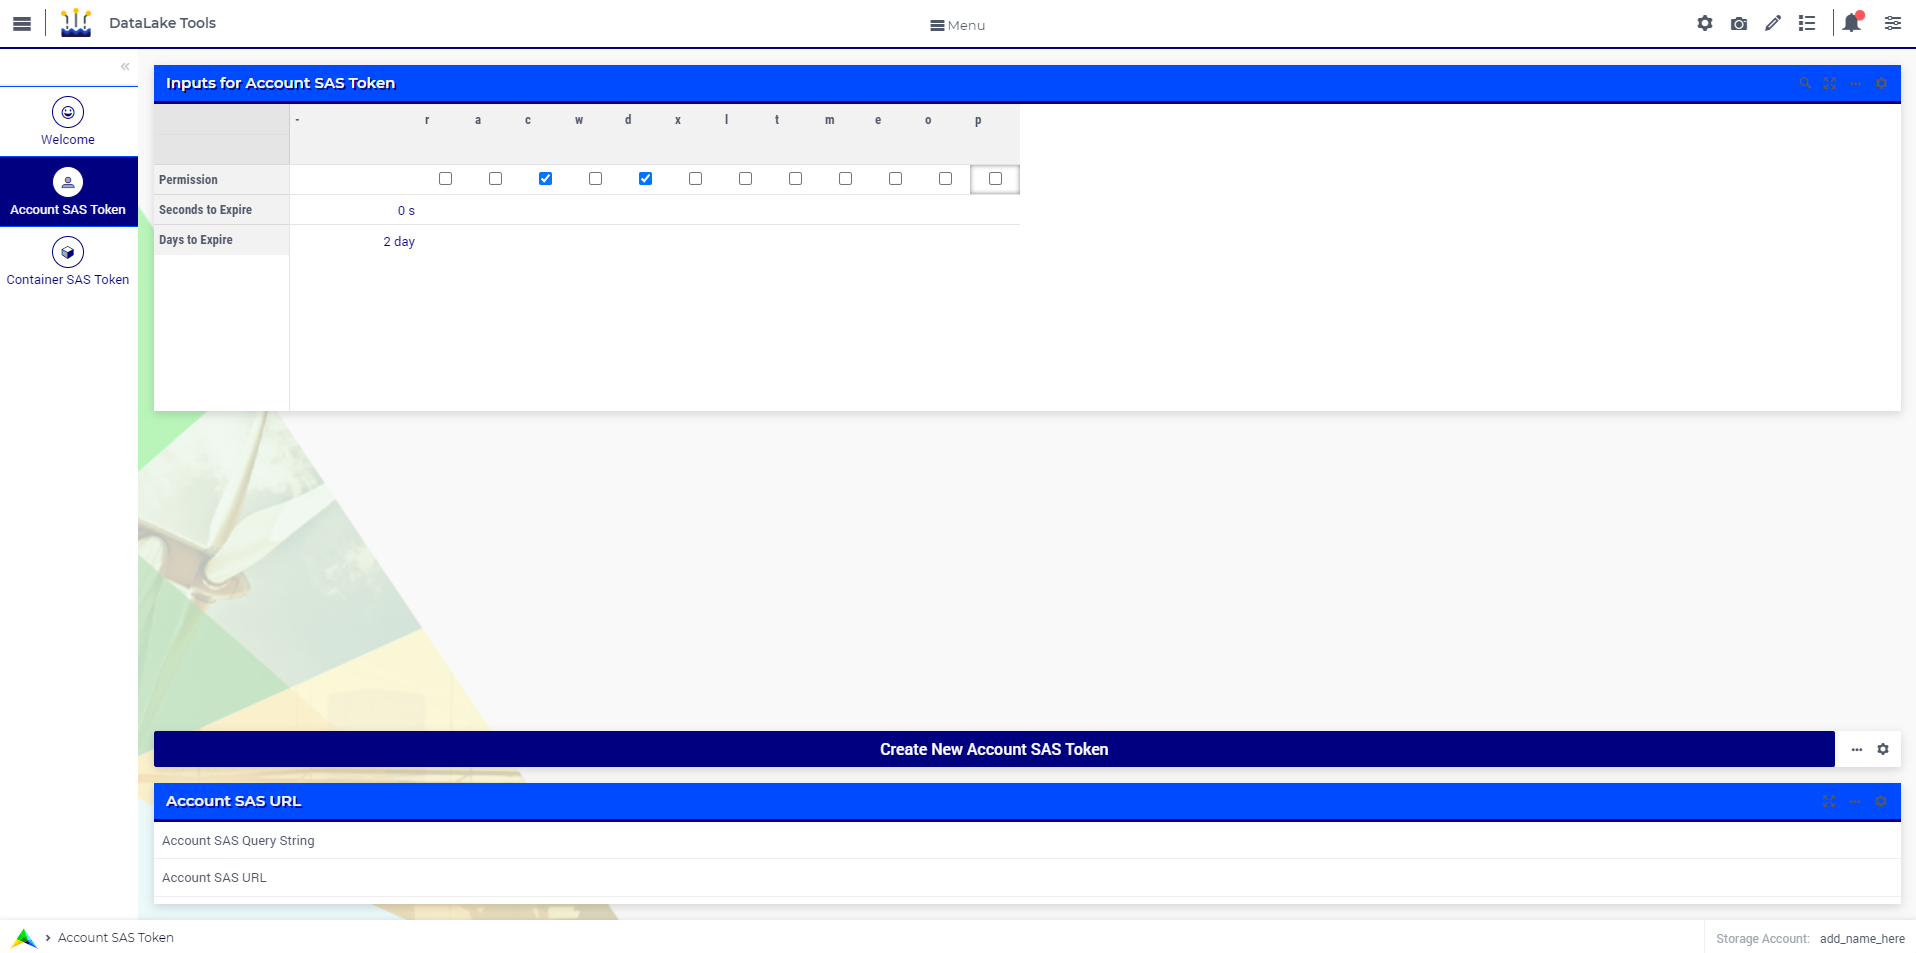
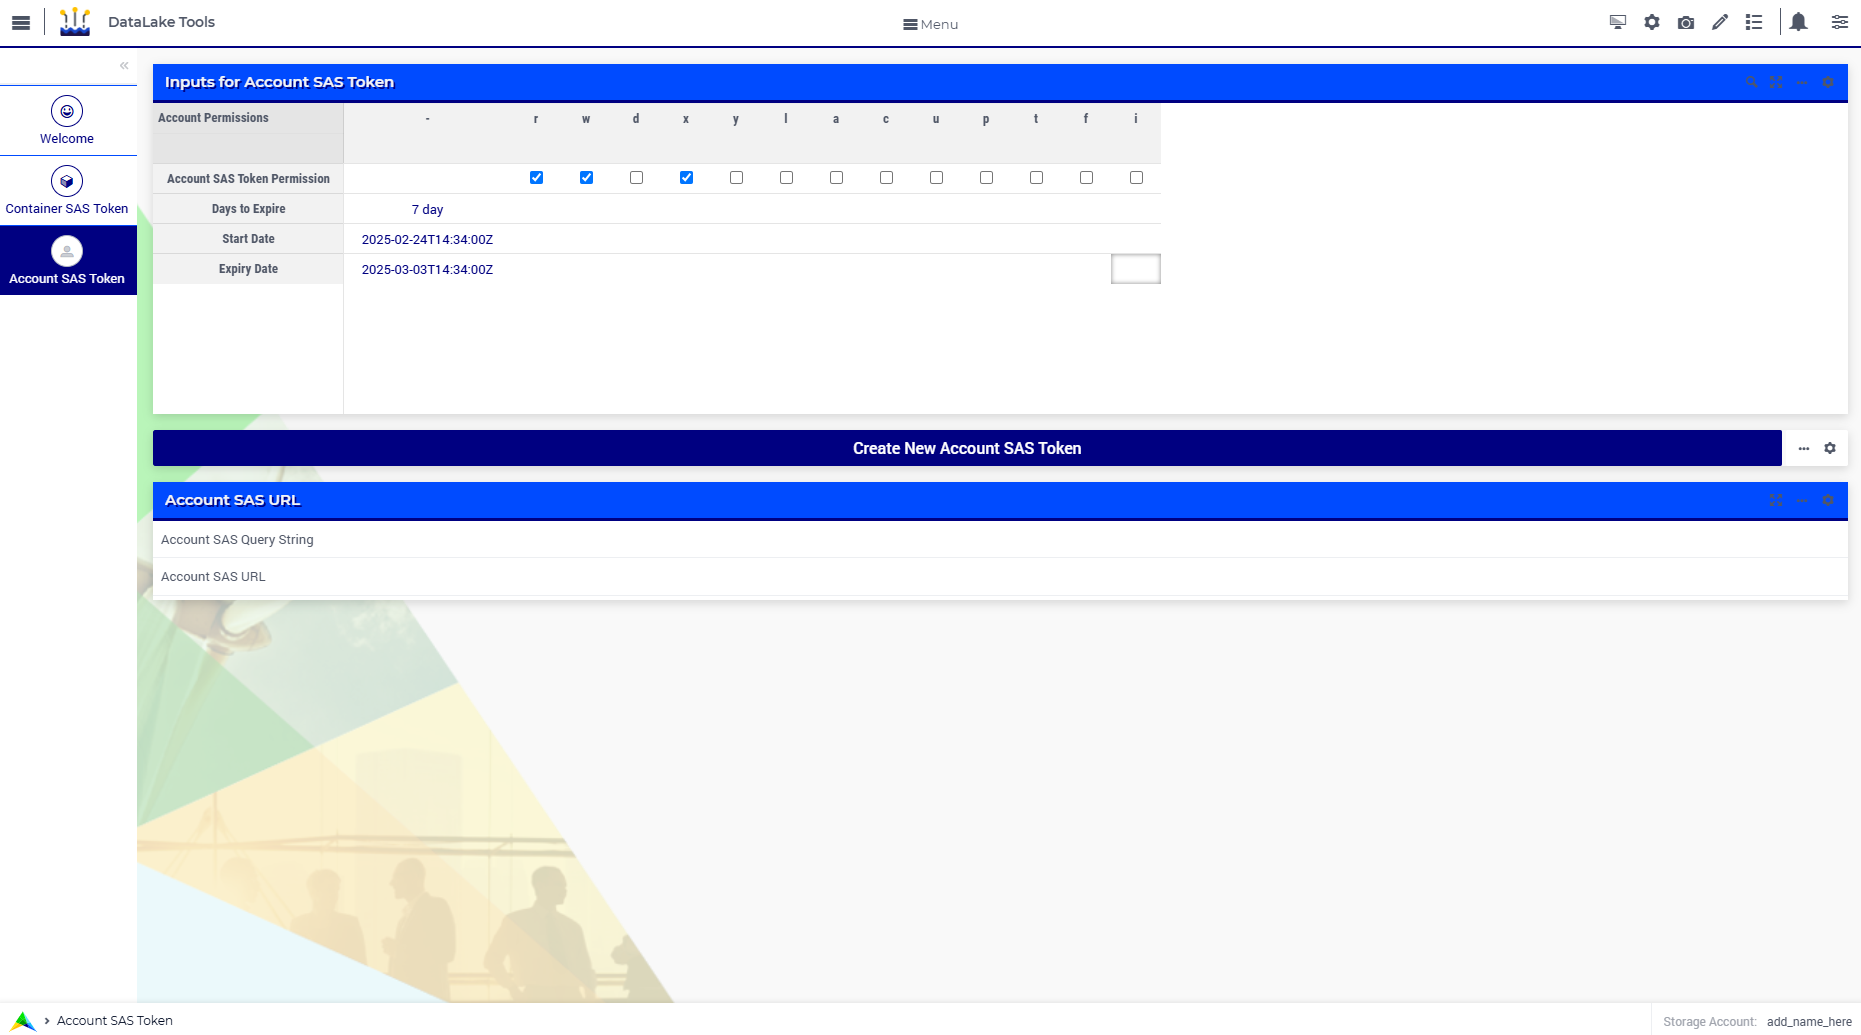
#598: updating datalake tools app to use access policies to create tokens. UI updated.
Former-commit-id: 289b14bfcf1271f10e81e847cf4f4c41a6e0eeb0

diff --git a/Articles/598/598-datalake-tools.rst b/Articles/598/598-datalake-tools.rst
@@ -2,13 +2,13 @@ DataLake Tools
 =================
 
 .. meta::
-   :keywords: datalake, azure, sas token, container, data integration, file system, file management
+   :keywords: datalake, azure, sas token, container, data integration, File System, file management
    :description: This article is for developers who want to integrate the Azure Data Lake Storage as part of their AIMMS account.
 
-.. image:: https://img.shields.io/badge/AIMMS_24.2-ZIP:_DataLake Tools-blue
+.. image:: https://img.shields.io/badge/AIMMS_25.1-ZIP:_DataLake Tools-blue
    :target: https://github.com/aimms/datalake-tools/archive/refs/heads/main.zip
 
-.. image:: https://img.shields.io/badge/AIMMS_24.2-Github:_DataLake Tools-blue
+.. image:: https://img.shields.io/badge/AIMMS_25.1-Github:_DataLake Tools-blue
    :target: https://github.com/aimms/datalake-tools
 
 .. image:: https://img.shields.io/badge/AIMMS_Community-Forum-yellow
@@ -35,9 +35,8 @@ Instructions
 This chapter is divided into three sections:
 
 #. Application Preparation
-#. Understanding 'Account SAS Token' Page
 #. Understanding 'Container SAS Token' Page
-
+#. Understanding 'Account SAS Token' Page
 
 Application Preparation
 ~~~~~~~~~~~~~~~~~~~~~~~
@@ -46,13 +45,50 @@ To use this application, you can either:
 **Use it on the cloud:** Download this toolkit and upload it to your cloud. From there, there is no further need for authentication - the Data Exchange library will automatically extract the storage account name and access key of the Data Lake Storage account associated with your AIMMS Cloud account. 
 Make sure to create the ``aimmspack`` with ``api-init`` folder unchecked. Read more about the ADLS for the AIMMS Cloud `here <https://documentation.aimms.com/dataexchange/dls.html>`_. 
 
-**Use it locally:** Download this toolkit and open ``api-init/Data_Lake_Storage.txt``. Add your ``StorageAccount`` replacing ``"add_name_here"`` string. Open the project. 
+**Use it locally:** Download this toolkit and open ``api-init/Data_Lake_Storage.txt``. Add your ``StorageAccount`` and your ``StorageAccount`` replacing ``"add_name_here"`` string. Open the project. 
 
 If you prepared the application correctly, by opening the application, you will see the 'Storage Account' name on the right bottom of your page. Without a 'Storage Account' name, nothing from this point on will work. 
 
+Understanding 'Container SAS Token' Page
+~~~~~~~~~~~~~~~~~~~~~~~~~~~~~~~~~~~~~~~~~~
+In the 'Container SAS Token' page you will be able to: create, update and delete Access Policies, manage File Systems and create a Container SAS Token.
+
+File System
+^^^^^^^^^^^^^^^^^^^^^^
+In the 'Manage File System' tab, you will be able to: create and delete File Systems. If you prefer to create directly on Azure, here, you can also fetch an updated File System list.
+
+.. image:: images/manage-file-system.png
+    :align: center
+
+|
+
+Access Policy
+^^^^^^^^^^^^^^^^^^^^^^
+
+To generate a Container SAS Token, you must first define an Access Policy. Each File System can have up to five Access Policies. 
+On this page, you can create a new policy, modify existing ones, or delete them as needed. As a best practice, grant only the permissions 
+that are strictly necessary to minimize security risks. Avoid assigning excessive privileges, 
+and regularly review policies to ensure they align with current access requirements.
+
+.. image:: images/container-sas-token.png
+    :align: center
+
+|
+
+Container SAS Token
+^^^^^^^^^^^^^^^^^^^^^^
+
+To create a Container SAS Token, please input the required information on the table. Note that once you select a File System and Access Policy, you can check the Access Policy information on the right side table. 
+Once everything is set, click on the button below it. A new Container SAS Token will be generated and will appear on the bottom.
+
 Understanding 'Account SAS Token' Page
 ~~~~~~~~~~~~~~~~~~~~~~~~~~~~~~~~~~~~~~~
-In the next subsection, the functionality of 'Account SAS Token' page will be detailed.
+
+On the 'Account SAS Token' page, you can create an Account SAS Token. This page is accessible via the Page Manager 
+but not through the workflow. While the ability to generate Account SAS Tokens exists, we strongly recommend using 
+Container SAS Tokens instead, as they help minimize security risks by limiting access to specific File Systems. As a best practice, 
+always grant only the permissions necessary for the intended use, regularly review token usage, and avoid long-lived tokens to reduce exposure to potential security threats.
+
 
 .. image:: images/account-sas-token.png
     :align: center
@@ -61,20 +97,6 @@ In the next subsection, the functionality of 'Account SAS Token' page will be de
 
 To create a Account SAS Token, please input the required information on Inputs table. Click on the button below it.
 A new Account SAS Token will be generated and will appear on the bottom.
-
-
-Understanding 'Container SAS Token' Page
-~~~~~~~~~~~~~~~~~~~~~~~~~~~~~~~~~~~~~~~~~~
-In the next subsection, the functionality of 'Container SAS Token' page will be detailed.
-
-.. image:: images/container-sas-token.png
-    :align: center
-
-|
-
-To create a Container SAS Token, please input the required information on Inputs table. Note that a File System is required, but you can always fetch the latest File Systems by the 'Refresh File System' button. 
-Here you have the opportunity to create and delete File Systems. If you prefer to create directly on Azure, here, you can update the File System list.
-Once everything is set, click on the button below it. A new Container SAS Token will be generated and will appear on the bottom.
 
 Minimal Requirements
 --------------------
@@ -87,10 +109,13 @@ If you do not see a name here, please contact `AIMMS Support <support@aimms.com>
 Release Notes
 --------------------
 
+`v1.4 <https://github.com/aimms/datalake-tools/releases/tag/1.4>`_ (24/02/2025)
+   Access Policies are now required to create an Container SAS Token. UI updated.
+
 `v1.3 <https://github.com/aimms/datalake-tools/releases/tag/1.3>`_ (13/03/2024)
    Make the app more usable by allowing: the expiry time to be specified in days as well as seconds, 
    choosing the right order of permissions for container SAS tokens, displaying SAS query string as well as SAS URL, 
-   creation and deletion of file systems (containers) within the storage account.
+   creation and deletion of File Systems (containers) within the storage account.
 
 `v1.2 <https://github.com/aimms/datalake-tools/releases/tag/1.2>`_ (28/02/2024)
    Adding missing parameter to the table. 
